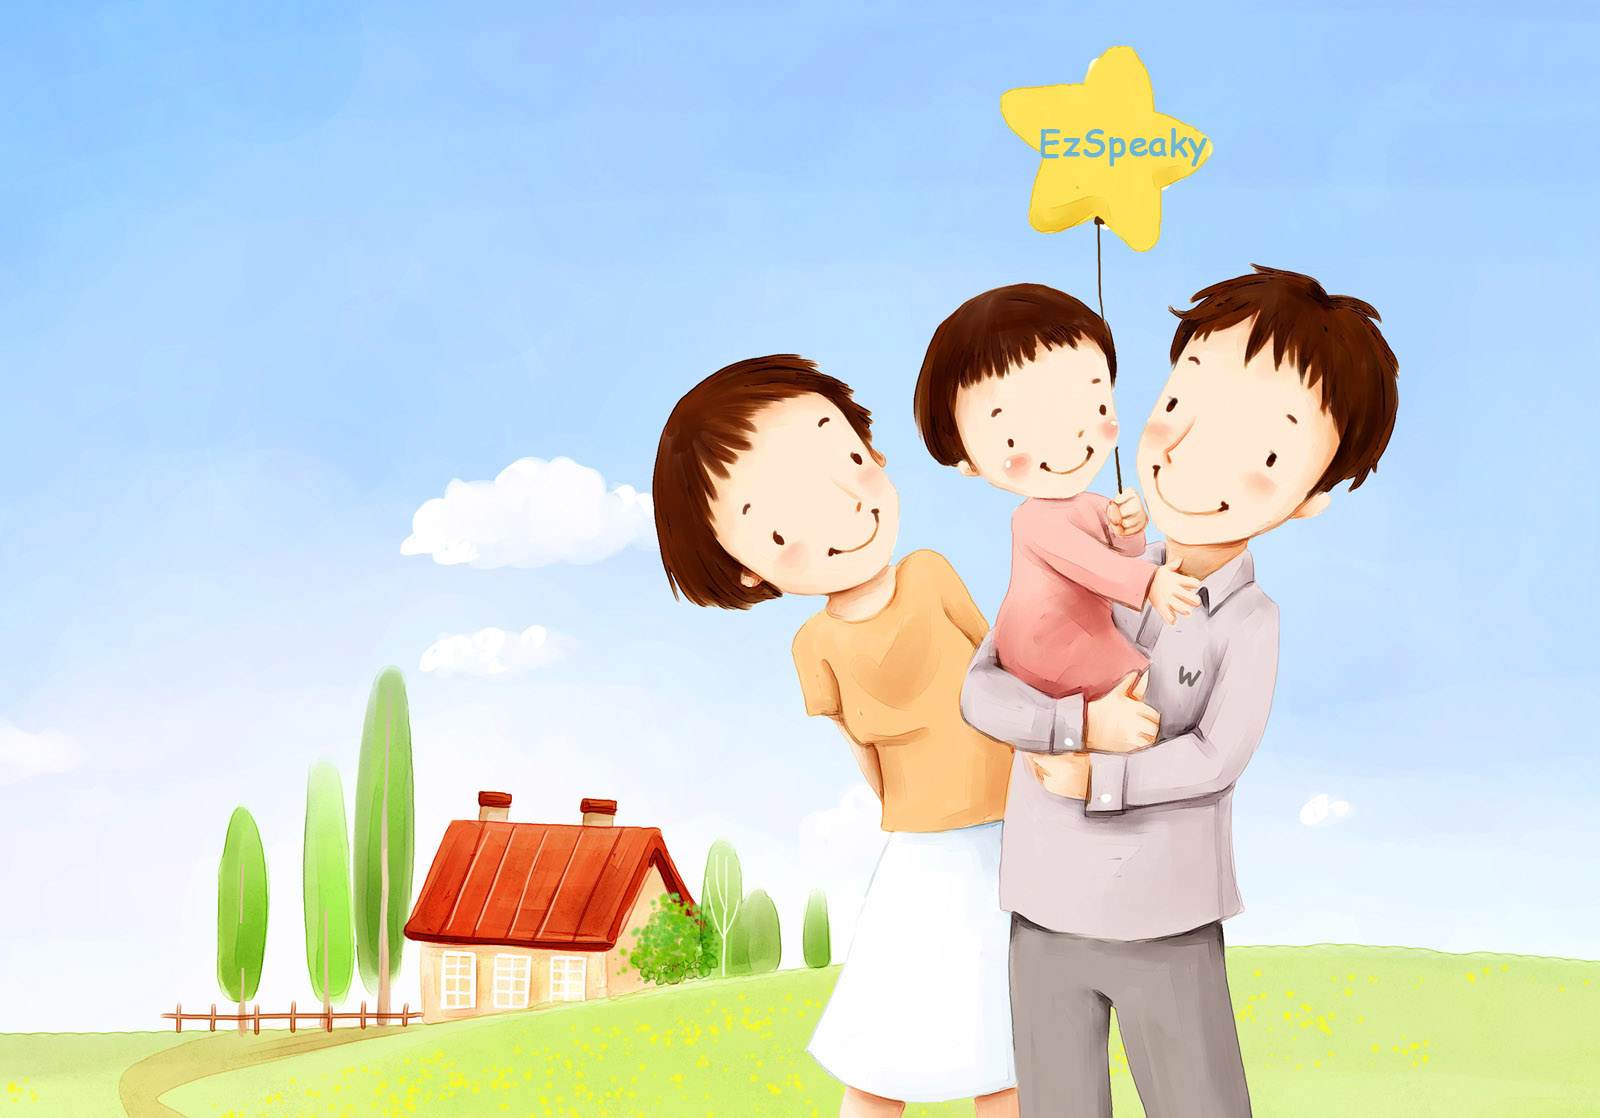
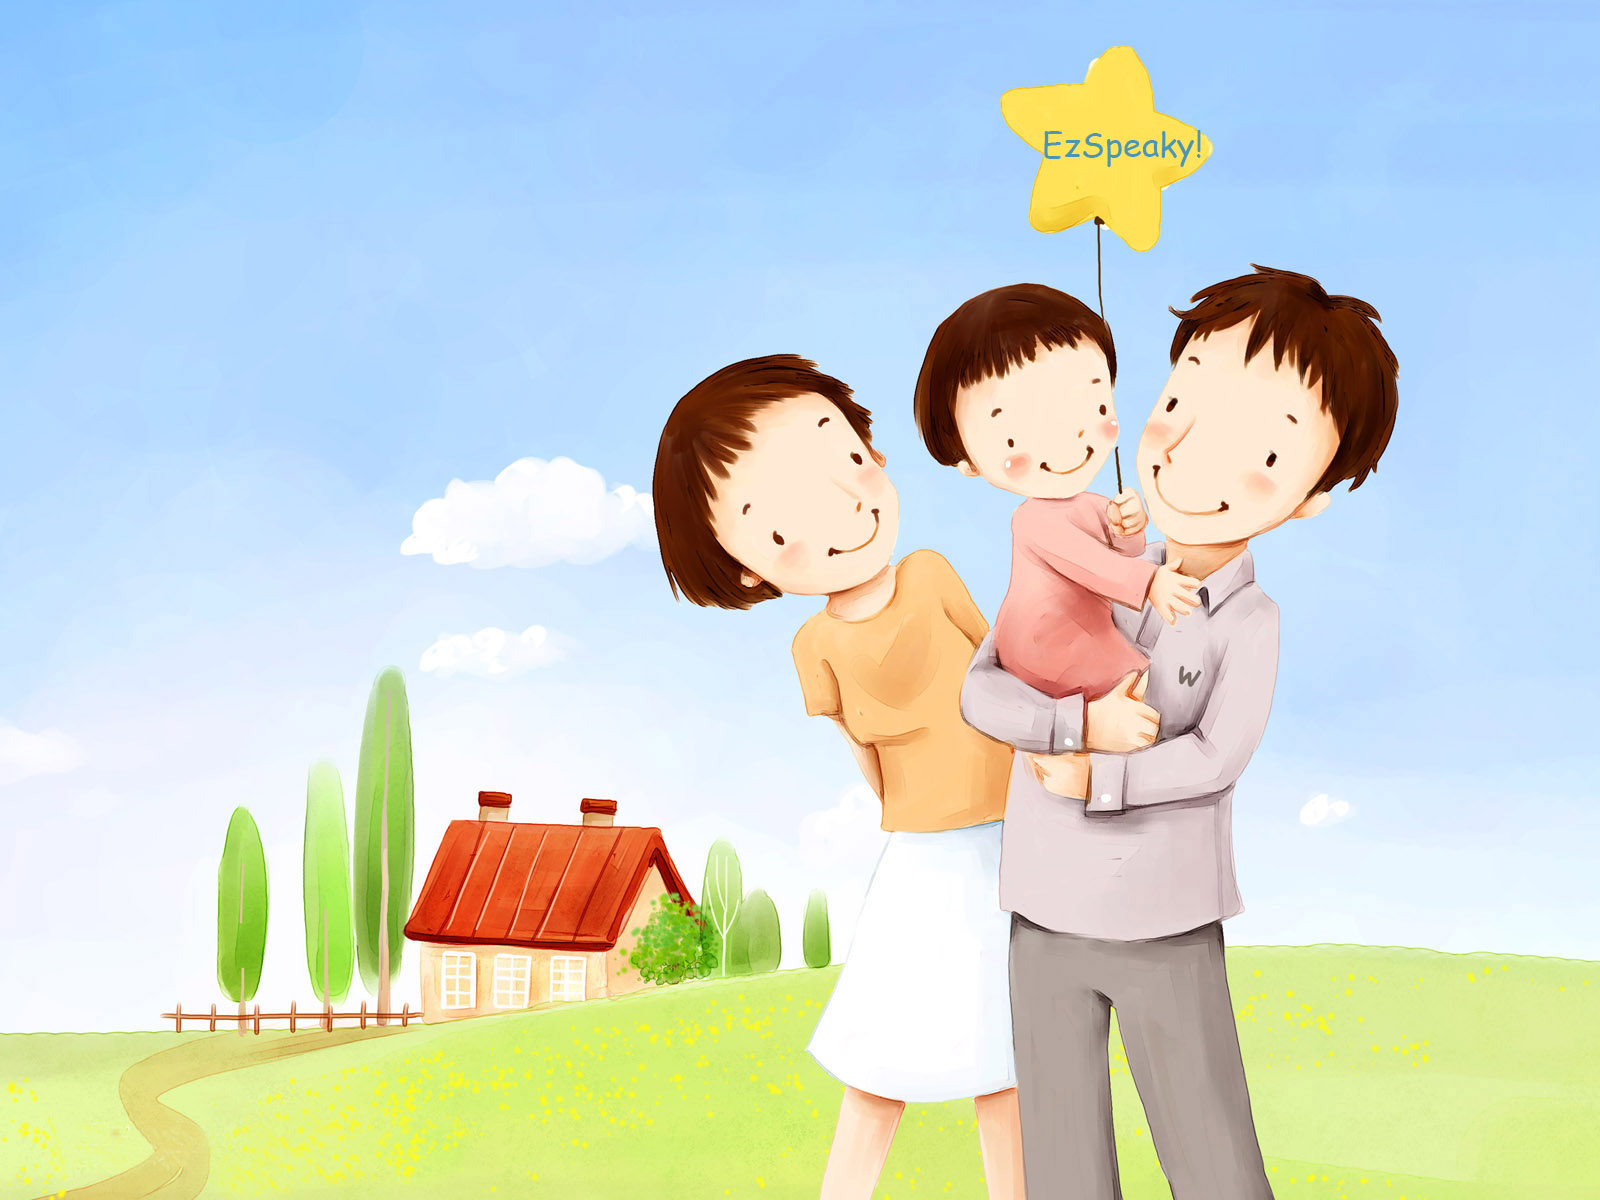
Implement new background and responsive css

diff --git a/app/styles/app.scss b/app/styles/app.scss
@@ -6,9 +6,19 @@
 @import 'therapy-details';
 
 body {
-  background-image: url('http://www.clipartkid.com/images/512/high-resolution-cartoon-illustraion-of-family-love-1600-1200-no-5-SwXQKB-clipart.jpg');
+  background-image: url('https://raw.githubusercontent.com/yenpraja610/ezspeaky/master/public/assets/images/ezspeaky_family.jpg');
   background-repeat: no-repeat;
-  background-size: 1438px 850px;
+  background-size: cover;
+  height: 850px;
+}
+@media
+  (min-width: 375px) and (max-width: 400px),
+  (min-width: 468px),
+  (-webkit-min-device-pixel-ratio: 2),
+  (min-resolution: 192dpi) {
+  .img {
+    background-image: url('https://raw.githubusercontent.com/yenpraja610/ezspeaky/master/public/assets/images/ezspeaky_family.jpg');
+  }
 }
 
 .first-view {
